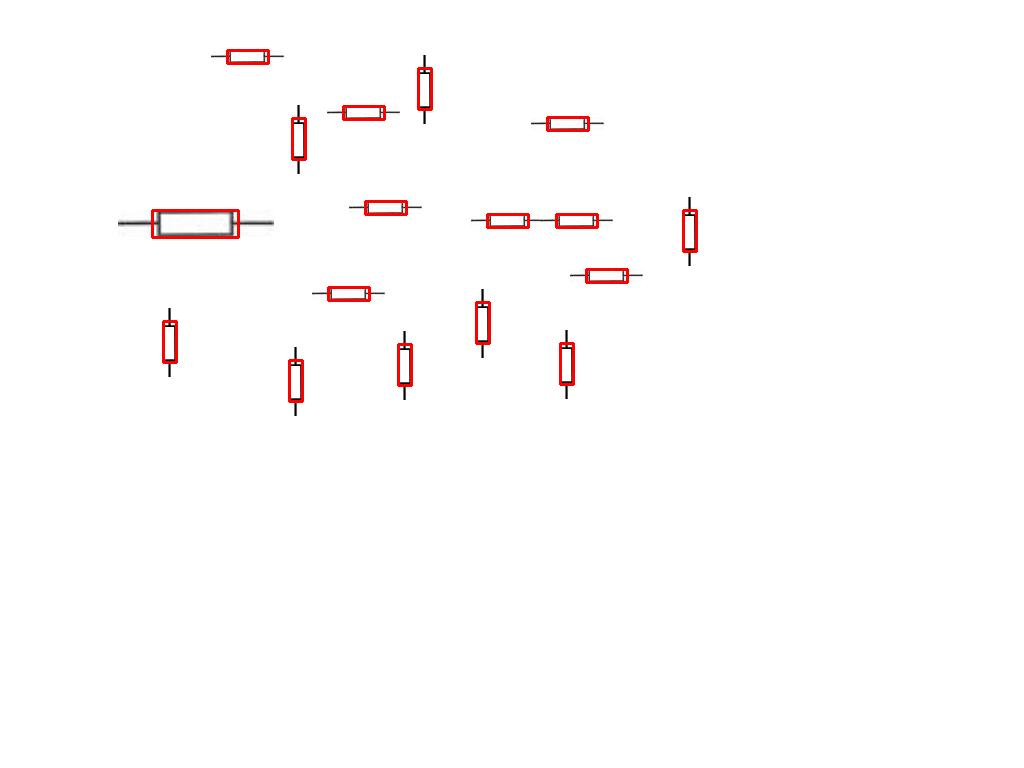
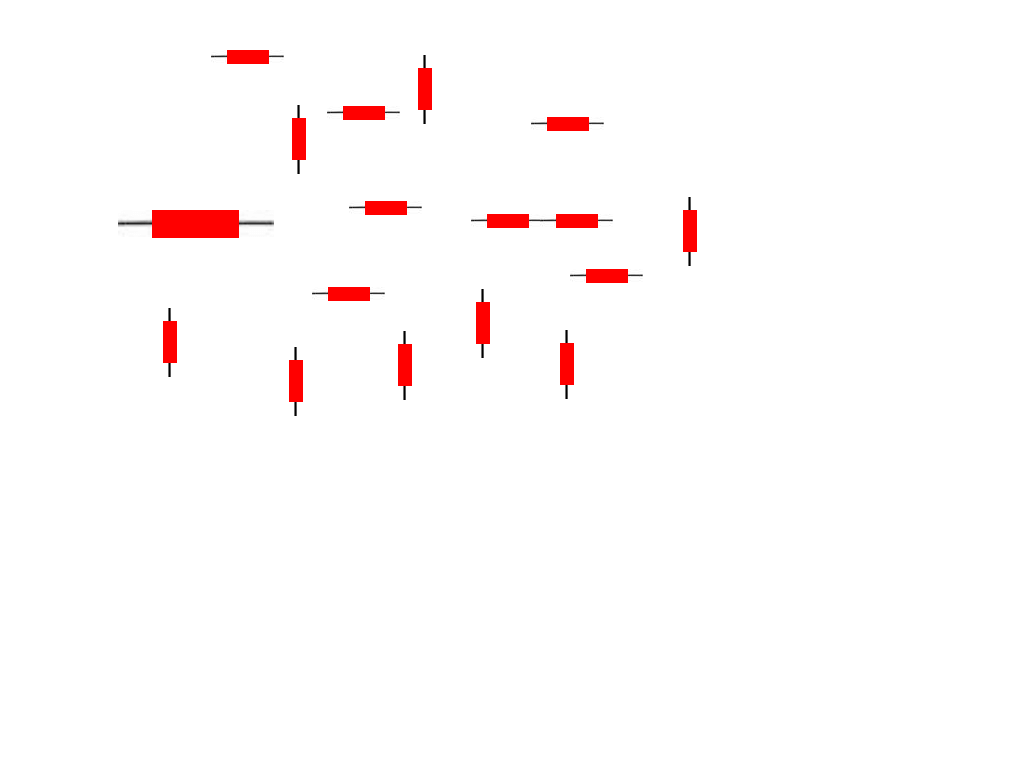
add connection detection to project

diff --git a/template_matching.py b/template_matching.py
@@ -1,7 +1,7 @@
 import cv2 as cv
 import imutils as im
 import numpy as np
-from matplotlib import pyplot as plt
+import json
 
 def rotate_image(image, angle):
     result = im.rotate_bound(image, angle)
@@ -28,6 +28,8 @@ def modifiedTemplateMatch(image, template, thresh, rot_range, rot_interval, scal
     height, width = template.shape
     image_maxwh = image.shape
     all_points = []
+    element_id = 1
+    element_type = "Resistor"
     
     for next_angle in range(rot_range[0], rot_range[1], rot_interval):
             for next_scale in range(scale_range[0], scale_range[1], scale_interval):
@@ -41,7 +43,8 @@ def modifiedTemplateMatch(image, template, thresh, rot_range, rot_interval, scal
                 satisfied_points = np.where(matched_points >= thresh)
                 
                 for pt in zip(*satisfied_points[::-1]):
-                    all_points.append([pt, next_angle, actual_scale])
+                    all_points.append([pt, next_angle, actual_scale, element_id, element_type, width, height])
+                    element_id += 1
 
     if rm_redundant == True:
         lone_points_list = []
@@ -72,24 +75,144 @@ def template_match(img, template, thresh):
     template_bgr = cv.imread('./templates/' + template)
     template_gray = cv.cvtColor(template_bgr, cv.COLOR_BGR2GRAY)
 
-    heigth, width = template_gray.shape
-    
+    height, width = template_gray.shape
     
     res = modifiedTemplateMatch(img_gray, template_gray, thresh, [0,360], 45, [50,300], 10, True)
-    print(res)
         
-    
     for pt in res[::-1]:
         if pt[1] == 90 or pt[1] == 270:
-            scaled_width = heigth * pt[2] / 100
-            scaled_heigth = width * pt[2] / 100
+            scaled_width = height * pt[2] / 100
+            scaled_height = width * pt[2] / 100
         else:
             scaled_width = width * pt[2] / 100
-            scaled_heigth = heigth * pt[2] / 100
-        cv.rectangle(img_bgr, pt[0], (pt[0][0] + round(scaled_width), pt[0][1] + round(scaled_heigth)), (0,0,255), 2)
+            scaled_height = height * pt[2] / 100
+        cv.rectangle(img_bgr, pt[0], (pt[0][0] + round(scaled_width), pt[0][1] + round(scaled_height)), (255,255,255), -1)
     
     
     cv.imwrite('./results/results_' + img, img_bgr)
-    return res
 
-template1 = template_match('test.png', 'template1.png', 0.9);
+    return res, img_bgr
+
+def detect_lines(image):
+    gray = cv.cvtColor(image, cv.COLOR_BGR2GRAY)
+    (thresh, black) = cv.threshold(gray, 127, 255, cv.THRESH_BINARY)
+    edges = cv.Canny(black, 50, 150, apertureSize=3, L2gradient=True)
+
+    lines_list = []
+    lines = cv.HoughLinesP(
+        edges,  # Input edge image
+        3,  # Distance resolution in pixels
+        np.pi / 180,  # Angle resolution in radians
+        threshold=60,  # Min number of votes for valid line
+        minLineLength=10,  # Min allowed length of line
+        maxLineGap=3  # Max allowed gap between line for joining them
+    )
+
+    if lines is not None:
+        for points in lines:
+            x1, y1, x2, y2 = points[0]
+            line_i = [(x1, y1), (x2, y2)]
+            keep_line = True
+            for j in range(len(lines_list)):
+                angle_diff = abs(angle(line_i) - angle(lines_list[j]))
+                if angle_diff < np.pi/10:
+                    dist_diff = abs(distance(line_i) - distance(lines_list[j]))
+                    if dist_diff < 10:
+                        keep_line = False
+                        break
+            if keep_line:
+                cv.line(image, (x1, y1), (x2, y2), (0, 255, 0), 2)
+                lines_list.append(line_i)
+
+        cv.imwrite('./results/detectedLines.png', image)
+    else:
+        print("No lines detected")
+
+    return lines_list
+
+def angle(line):
+    x1, y1 = line[0]
+    x2, y2 = line[1]
+    return np.arctan2(y2-y1, x2-x1)
+
+def distance(line):
+    x1, y1 = line[0]
+    x2, y2 = line[1]
+    return np.sqrt((x2-x1)**2 + (y2-y1)**2)
+
+def check_connection(elements, lines):
+    connections = []
+    
+    for line in lines:
+        startConnected, endConnected = False, False
+        startId, endId = 0, 0
+        
+        for element in elements:
+            if is_near_rect(line[0], element[0], element[1], element[5], element[6]):
+                startConnected = True
+                startId = element[3]
+            if is_near_rect(line[1], element[0], element[1], element[5], element[6]):
+                endConnected = True
+                endId = element[3]
+        if startConnected and endConnected and endId != startId:
+            connections.append([startId, endId])
+    return connections
+        
+
+def is_near_rect(point, center, rotation, width, height):
+    x, y = point
+    cx, cy = center
+
+    if rotation == 90 or rotation == 270:
+        actual_width = height
+        actual_height = width
+    else:
+        actual_width = width
+        actual_height = height
+
+    if cx - 25 <= x + actual_width / 2 <= cx + actual_width  + 25 and cy - 25 <= y + actual_height / 2 <= cy + actual_height  + 25:
+        return True
+    else:
+        return False
+
+def element_to_JSON(element):
+    data = {}
+    data['type'] = element[4]
+    data['posX'] = element[0][0]
+    data['posY'] = element[0][1]
+    data['id'] = element[3]
+    data['rot'] = int(element[1] / 90)
+
+    return data
+        
+def connection_to_JSON(connection_data):
+    data = {}
+
+    data['type'] = "Connection"
+    data['anchor1'] = connection_data[0]
+    data['anchor2'] = connection_data[1]
+
+    return data   
+    
+def main(img):
+    elements, template1_img = template_match(img, 'template1.png', 0.9);
+
+    lines = detect_lines(template1_img)
+
+    connections = check_connection(elements, lines)
+
+    data = []
+
+    for element in elements:
+        data.append(element_to_JSON(element))
+    for connection in connections:
+        data.append(connection_to_JSON(connection))
+
+    #print(elements)
+    #print("////")
+    #print(connections)
+    #print(data)
+
+    return data
+
+#data = main()

diff --git a/gui.py b/gui.py
@@ -5,6 +5,7 @@ import json
 from tkinter.filedialog import asksaveasfile, askopenfile
 import math
 import random
+import template_matching as tm
 
 
 # Function for saving to file
@@ -46,6 +47,7 @@ class MenuBar(tk.Menu):
         self.add_cascade(label="File",underline=0, menu=file_menu)
         file_menu.add_command(label="Save", command=lambda: parent.Save())
         file_menu.add_command(label="Load", command=lambda: parent.Load())
+        file_menu.add_command(label="Load from file", command=lambda: parent.LoadFromFile())
         file_menu.add_command(label="Exit", underline=1, command=self.quit)
 
     def quit(self):
@@ -337,6 +339,14 @@ class Application(tk.Tk):
         else: # user cancel the file browser window
             print("No file chosen") 
 
+    def LoadFromFile(self):
+        file = askopenfile(title='Select input file', filetypes=[("PNG files", ".png")])
+        if file: # user selected a file
+            path = file.name.split("/")
+            data = tm.main(path[len(path)-1])
+            self.workspace.Load(data)
+        else: # user cancel the file browser window
+            print("No file chosen")     
 
 # Statusbar for the application
 class StatusBar(tk.Frame):
